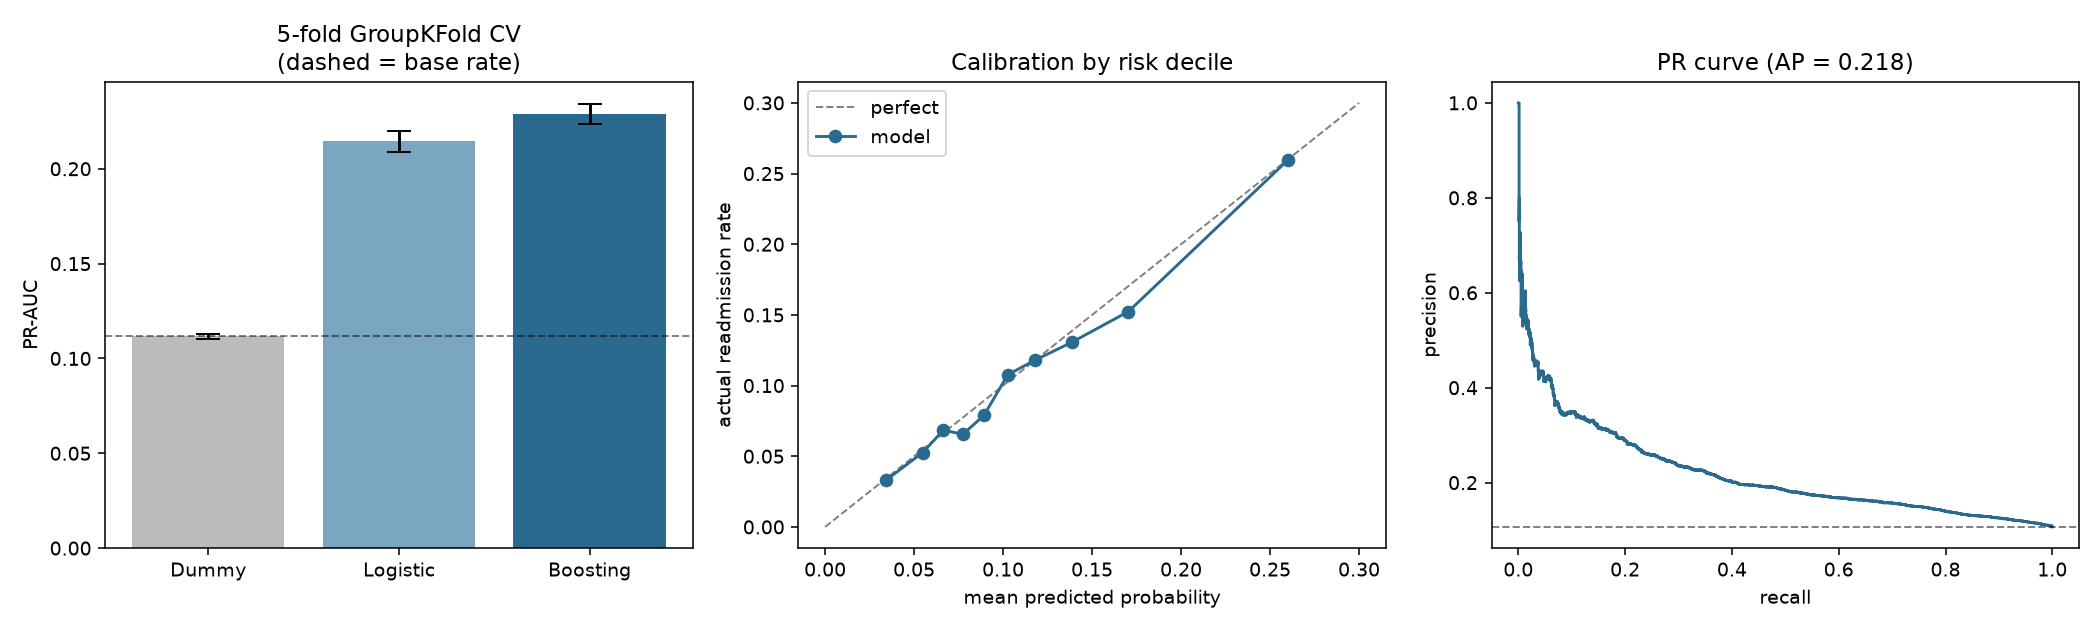
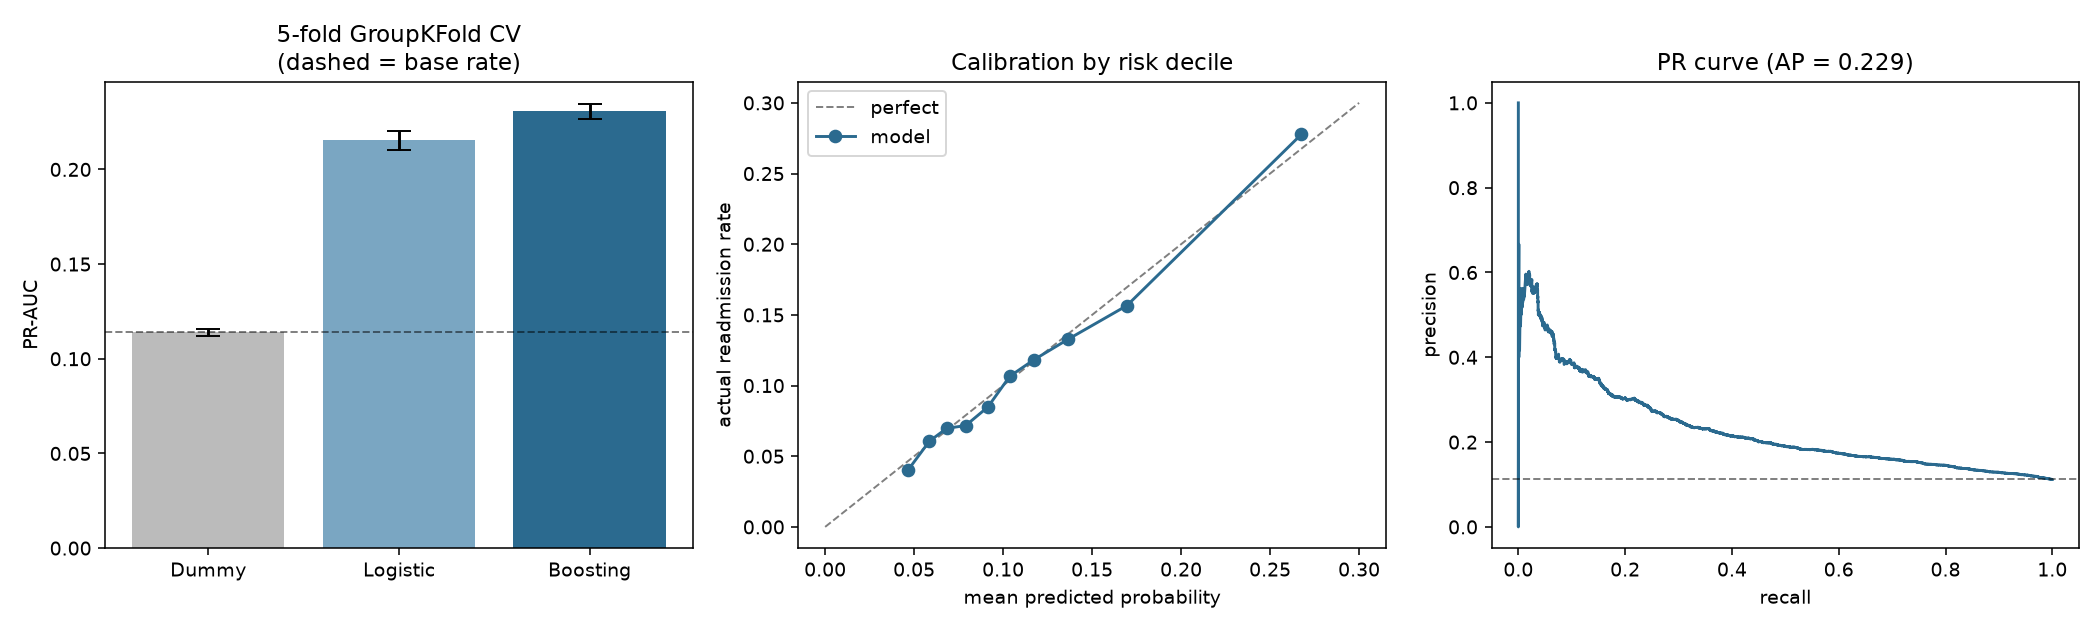
Exclude expired/hospice discharges; update all results

diff --git a/plots.py b/plots.py
@@ -27,11 +27,11 @@ fig, axes = plt.subplots(1, 3, figsize=(15, 4.5))
 
 # 1. CV comparison with error bars
 names = ["Dummy", "Logistic", "Boosting"]
-means = [0.1116, 0.2144, 0.2288]
-stds = [0.0014, 0.0054, 0.0054]
+means = [0.1139, 0.2153, 0.2306]
+stds = [0.0019, 0.0048, 0.0040]
 axes[0].bar(names, means, yerr=stds, capsize=6,
             color=["#bbb", "#7aa6c2", "#2b6a8f"])
-axes[0].axhline(0.1116, ls="--", c="k", lw=1, alpha=0.5)
+axes[0].axhline(0.1139, ls="--", c="k", lw=1, alpha=0.5)
 axes[0].set_ylabel("PR-AUC")
 axes[0].set_title("5-fold GroupKFold CV\n(dashed = base rate)")
 

diff --git a/features.py b/features.py
@@ -30,6 +30,11 @@ def load():
     for col in ["admission_type_id", "discharge_disposition_id", "admission_source_id"]:
         df[col] = df[col].astype(str)
     df = add_diag_groups(df)
+    # Expired (11,19,20,21) and hospice (13,14) discharges cannot be
+    # readmitted — structural negatives that inflate any score.
+    keep = ~df["discharge_disposition_id"].astype(int).isin([11, 13, 14, 19, 20, 21])
+    df = df[keep].reset_index(drop=True)
+    y = y[keep.values].reset_index(drop=True)
     return df, y
 
 

diff --git a/README.md b/README.md
@@ -10,7 +10,7 @@ CC BY 4.0.
 ## Headline
 
 The model separates risk well: patients in the **top predicted-risk decile
-readmit at 26.0%, versus 3.3% in the bottom decile — a 7.8x lift.**
+readmit at 27.8%, versus 4.0% in the bottom decile — a 6.9x lift.**
 Predicted probabilities are well calibrated (see centre panel), so the scores
 can be read as actual risk, not just a ranking.
 
@@ -29,6 +29,12 @@ and asserted non-overlapping.
 missing, but a test *not* being ordered is itself a signal. These are encoded
 as their own category rather than dropped. `weight` (97% missing) is dropped.
 
+**Structural negatives.** 2,423 encounters (2.4%) end in death (discharge
+codes 11, 19, 20, 21) or hospice transfer (13, 14). These patients cannot be
+readmitted — their readmission rate is 1.8% vs 11.4% for everyone else. They
+are excluded, because a model that learns "discharge code 11 means no
+readmission" is correct and clinically useless.
+
 **High-cardinality diagnoses.** `diag_1/2/3` hold ~700 distinct ICD-9 codes
 each. These are grouped into nine clinical categories (circulatory,
 respiratory, diabetes, etc.) rather than one-hot encoded raw.
@@ -39,15 +45,15 @@ respiratory, diabetes, etc.) rather than one-hot encoded raw.
 
 | Model | PR-AUC | vs. base rate |
 |-------|--------|---------------|
-| Dummy (predicts base rate) | 0.1116 ± 0.0014 | — |
-| Logistic regression | 0.2144 ± 0.0054 | +92% |
-| Gradient boosting | 0.2288 ± 0.0054 | +105% |
+| Dummy (predicts base rate) | 0.1139 ± 0.0019 | — |
+| Logistic regression | 0.2153 ± 0.0048 | +89% |
+| Gradient boosting | 0.2306 ± 0.0040 | +102% |
 
-Boosting beats logistic regression in **5 of 5 folds** (mean gain 0.0144,
-worst fold +0.0097), so the improvement survives resampling rather than
+Boosting beats logistic regression in **5 of 5 folds** (mean gain 0.0154,
+worst fold +0.0087), so the improvement survives resampling rather than
 being an artifact of one split.
 
-ROC-AUC for the boosting model is 0.674 — much higher than PR-AUC because
+ROC-AUC for the boosting model is 0.669 — much higher than PR-AUC because
 the large negative class flatters the false-positive rate. PR-AUC is the
 honest metric on an 11% problem.
 
@@ -57,10 +63,10 @@ Permutation importance (drop in PR-AUC when a feature is shuffled):
 
 | Feature | Drop |
 |---------|------|
-| `number_inpatient` | 0.0589 |
-| `discharge_disposition_id` | 0.0448 |
-| `diag_1_group` | 0.0116 |
-| `number_emergency` | 0.0053 |
+| `number_inpatient` | 0.0795 |
+| `discharge_disposition_id` | 0.0567 |
+| `number_emergency` | 0.0099 |
+| `diag_3_group` | 0.0058 |
 
 Prior hospitalizations dominate — past admissions are the strongest predictor
 of future ones. Discharge destination is second, which is clinically
@@ -70,17 +76,25 @@ sensible: where a patient goes after release shapes whether they come back.
 
 Subgroup PR-AUC on the held-out test set:
 
-- **Patients aged 90–100 (n=528): PR-AUC 0.128, ROC-AUC 0.578** — barely
-  above chance, against ~0.67 ROC-AUC for every other age band. This is not a
-  base-rate artifact; that group has the *lowest* base rate (8.5%). The
-  features here don't capture what actually drives readmission in the very
-  elderly (frailty, social support, care setting).
-- **Patients with unrecorded race (n=410): PR-AUC 0.085** — worse than any
-  recorded group.
+- **Patients aged 90–100 (n=547): PR-AUC 0.194, ROC-AUC 0.540** — close to
+  chance, against ~0.65 ROC-AUC for other age bands. This is not a base-rate
+  artifact: that group has the *highest* base rate of any age band (12.8%).
+  The model is weakest at ranking the patients most likely to be readmitted.
+  Plausibly the features here don't capture what drives readmission in the
+  very elderly — frailty, social support, care setting.
+- **African American patients (n=3,707): PR-AUC 0.190 vs 0.238 for Caucasian
+  patients (n=14,886)** at similar base rates (10.7% vs 11.5%). Both samples
+  are large enough for this gap to be a stable estimate.
+- **Patients with unrecorded race (n=418): PR-AUC 0.168** — the weakest
+  recorded-demographic group.
 
-**This model should not be deployed for those populations without further
-work.** Reporting subgroup performance matters on real patient data where
-race, gender, and age are present.
+Subgroups below ~500 encounters (~40 positives) produce unstable PR-AUC
+estimates and are not interpreted here, even where they score well.
+
+**This model should not be deployed for the 90+ population, and the
+performance gap across race groups would need to be addressed before any
+clinical use.** Reporting subgroup performance matters on real patient data
+where race, gender, and age are present.
 
 ## Reproducing
 
